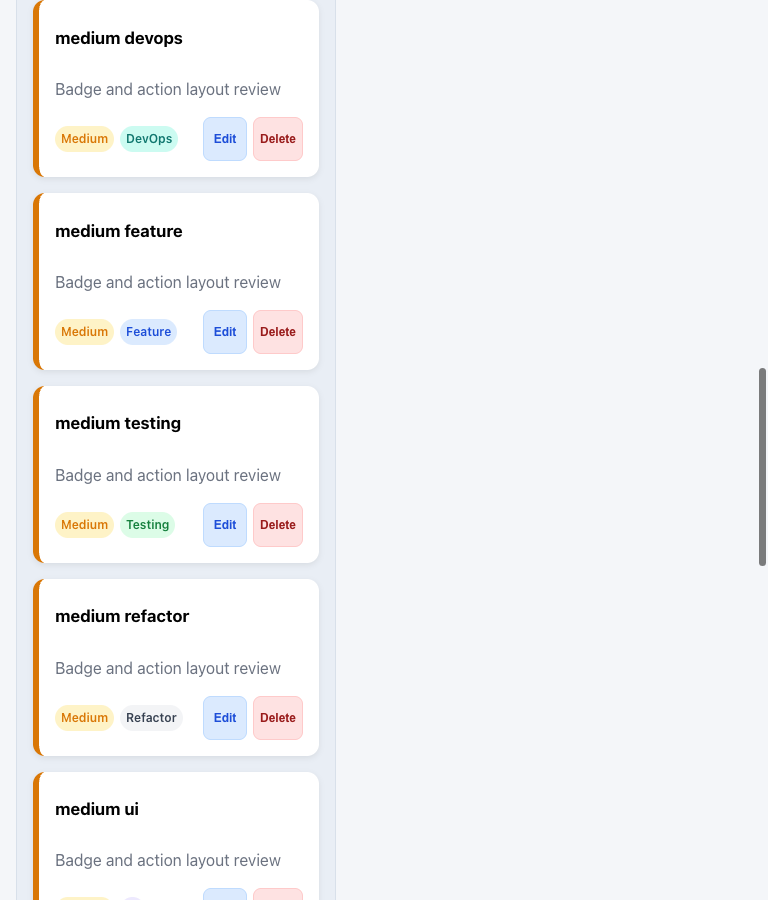
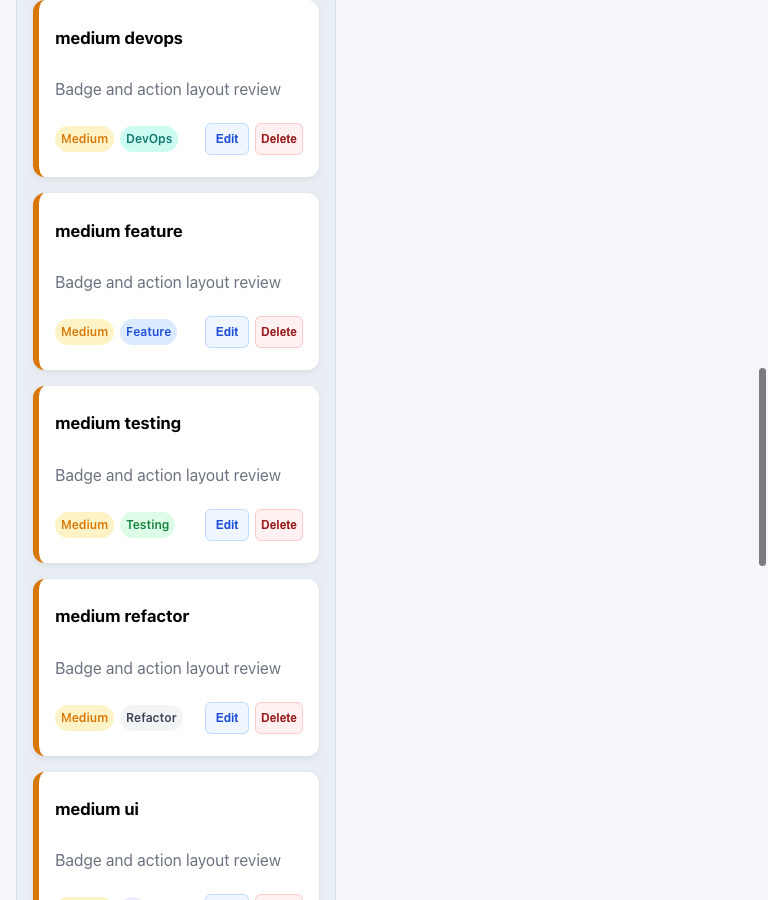
style: slim task card action buttons

diff --git a/src/components/TaskCard/TaskCard.css b/src/components/TaskCard/TaskCard.css
@@ -71,6 +71,43 @@
 
 .task-actions button {
   padding-inline: 6px;
+  position: relative;
+  isolation: isolate;
+  border: none;
+  border-radius: 6px;
+  background: transparent;
+}
+
+/* Slim visible buttons retain the full 44px target supplied by shared controls. */
+.task-actions button::before {
+  content: "";
+  position: absolute;
+  inset: 6px 0;
+  z-index: -1;
+  pointer-events: none;
+  border: 1px solid var(--task-action-border);
+  border-radius: inherit;
+  background: var(--task-action-background);
+}
+
+.task-actions .edit-task-button {
+  --task-action-border: #bfdbfe;
+  --task-action-background: #eff6ff;
+}
+
+.task-actions .delete-task-button {
+  --task-action-border: #fecaca;
+  --task-action-background: #fff1f2;
+}
+
+.task-actions .edit-task-button:hover {
+  --task-action-background: #dbeafe;
+  background: transparent;
+}
+
+.task-actions .delete-task-button:hover {
+  --task-action-background: #fee2e2;
+  background: transparent;
 }
 
 .task-category {

diff --git a/docs/v1.5-responsive-ui.md b/docs/v1.5-responsive-ui.md
@@ -136,7 +136,7 @@ layout assertions or snapshots were added.
 
 Final verification: 284 passing tests / 22 files in 22.50 seconds; typecheck,
 lint, production build and `git diff --check` passed. Production assets contain
-64 modules, CSS 20.03kB (4.35kB gzip) and JavaScript 279.99kB (87.11kB gzip).
+64 modules, CSS 20.69kB (4.46kB gzip) and JavaScript 279.99kB (87.11kB gzip).
 
 ## Screenshots
 
@@ -265,3 +265,23 @@ available at half-screen width.
 Build (including typecheck), lint and whitespace checks passed. This CSS-only
 change preserves the latest full suite result of 284 tests / 22 files. Updated
 screenshot: [badge pairs at 768px](images/responsive-ui/after/badge-pairs-768.png).
+
+## Slim card actions review — October 7
+
+Board Edit/Delete actions now have a 32px visible outlined surface, lighter blue
+and red backgrounds, and 6px corner radius. The button itself retains its 44px
+clickable height and minimum width. A noninteractive inset pseudo-element draws
+the slimmer surface without changing labels, keyboard focus, or the actual
+activation area. Hover darkens the inset surface. Shared editor/recovery controls
+are not restyled. The footer remains on a single row.
+
+All 312 priority/category/parent/completed-card layout checks passed again across
+11 widths and actual 200% Chrome zoom. Browser measurement verified a 32px visual
+surface within a 44px target. Native pointer activation in the transparent target
+edge opened Edit successfully; Edit/Delete cancellation remained usable. Build
+(including typecheck), lint and whitespace checks passed. The latest full suite
+result remains 284 tests / 22 files; this follow-up changes CSS only.
+
+The [half-screen screenshot](images/responsive-ui/after/badge-pairs-768.png) now
+shows the current slimmer buttons. Removing the board's Edit action or moving
+Delete into the editor remains a separate v2.0 change.
